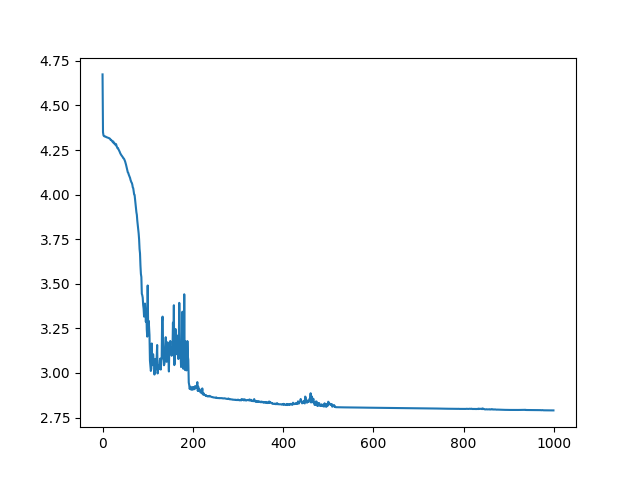
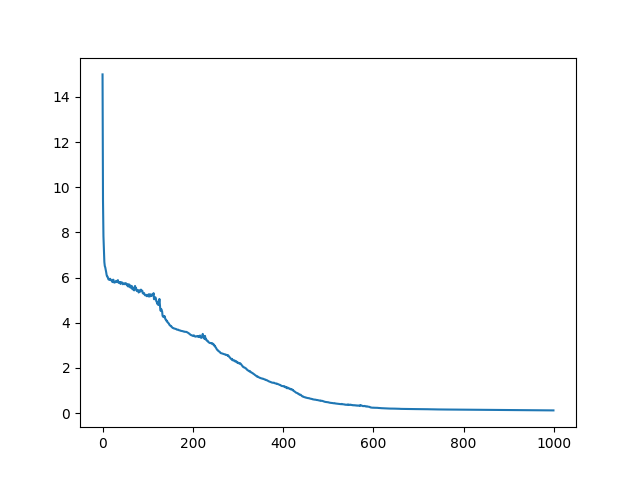
Assignment 012-2 Re-Computed

diff --git a/neural_network/012-2.py b/neural_network/012-2.py
@@ -1,44 +1,72 @@
 import math
+import decimal
 import sys
 from generate_weights import generate_weights
 from neural_network import NeuralNetwork
 
 def tanh( x ):
-    numerator = math.e ** x - math.e ** ( - x )
-    denominator = math.e ** x + math.e ** ( - x )
+    e_x = math.e ** x
+    e_neg_x = math.e ** ( - x )
+    numerator = e_x - e_neg_x
+    denominator = e_x + e_neg_x
     return numerator / denominator
 
 def sech( x ):
-    denominator = math.e ** x + math.e ** ( - x )
+    e_x = math.e ** x
+    e_neg_x = math.e ** ( - x )
+    denominator = e_x + e_neg_x
     return 2 / denominator
 
-dataset = [
-    ( 0.0 , 0.7 ), 
-    ( 0.2 , 0.56 ), 
-    ( 0.4 , 0.356 ), 
-    ( 0.6 , 0.123 ), 
-    ( 0.8 , -0.103 ),
-    ( 1.0 , -0.289 ), 
-    ( 1.2 , -0.406 ), 
-    ( 1.4 , -0.439 ), 
-    ( 1.6 , -0.388 ), 
-    ( 1.8 , -0.264 ),
-    ( 2.0 , -0.092 ), 
-    ( 2.2 , 0.095 ), 
-    ( 2.4 , 0.263 ), 
-    ( 2.6 , 0.379 ), 
-    ( 2.8 , 0.422 ),
-    ( 3.0 , 0.38 ), 
-    ( 3.2 , 0.256 ), 
-    ( 3.4 , 0.068 ), 
-    ( 3.6 , -0.158 ), 
-    ( 3.8 , -0.384 ),
-    ( 4.0 , -0.576 ), 
-    ( 4.2 , -0.701 ), 
-    ( 4.4 , -0.738 ), 
-    ( 4.6 , -0.676 ), 
-    ( 4.8 , -0.522 )
+dataset = [ 
+    (0.0 , 7.0), 
+    (0.2 , 5.6), 
+    (0.4 , 3.56), 
+    (0.6 , 1.23), 
+    (0.8 , -1.03),
+    (1.0 , -2.89),
+    (1.2 , -4.06), 
+    (1.4 , -4.39), 
+    (1.6 , -3.88), 
+    (1.8 , -2.64), 
+    (2.0 , -0.92), 
+    (2.2 , 0.95), 
+    (2.4 , 2.63), 
+    (2.6 , 3.79), 
+    (2.8 , 4.22),
+    (3.0 , 3.8), 
+    (3.2 , 2.56), 
+    (3.4 , 0.68), 
+    (3.6 , -1.58), 
+    (3.8 , -3.84), 
+    (4.0 , -5.76), 
+    (4.2 , -7.01), 
+    (4.4 , -7.38), 
+    (4.6 , -6.76), 
+    (4.8 , -5.22) 
 ]
+
+max_x = abs ( 
+        max( 
+        dataset, 
+        key = lambda data: abs( data[ 0 ] )
+    ) [ 1 ]
+)
+
+max_y = abs ( 
+        max( 
+        dataset, 
+        key = lambda data: abs( data[ 1 ] )
+    ) [ 1 ]
+)
+
+dataset = [ # preprocessing
+    ( 
+        data[0] / max_x,
+        data[1] / max_y
+    ) 
+    for data in dataset
+]
+
 
 dataset = [ 
     { 
@@ -56,21 +84,21 @@ best_nn = None
 for _ in range( 30 ):
 
     weights = generate_weights(
-        [1, 10, 6, 3, 1], 
+        [1, 6, 6, 6, 6, 6, 1], 
         random_bool = True, 
-        random_range = [ -0.2, 0.2 ],
-        layers_with_bias_nodes = [0, 1, 2, 3]
+        random_range = [ -1, 1 ],
+        layers_with_bias_nodes = [0, 1, 2, 3, 4, 5]
     )
 
-    activation_functions = [ 
+    activation_functions = [ lambda x: x ] + [ 
         tanh 
-        for _ in range( len( weights ) )
-    ]
+        for _ in range( len( weights ) - 2 )
+    ] + [ lambda x: x ]
 
-    activation_function_derivatives = [
+    activation_function_derivatives = [lambda x: 1 ] + [
         lambda x: sech(x) ** 2 
-        for _ in range( len( weights ) )
-    ]
+        for _ in range( len( weights ) - 2 )
+    ] + [ lambda x: 1 ]
 
     nn = NeuralNetwork(
         weights, 
@@ -133,26 +161,6 @@ plt.plot( list( range( 1000 ) ), total_rss )
 plt.savefig('images/012-2-1.png')
 plt.clf()
 
-def run_neural_network(nn, iterations):
-    for i in range(1, iterations + 1):
-        for data_point in dataset:
-            nn.calc_prediction(data_point)
-            for node in nn.nodes[::-1]:
-                nn.update_neuron_gradients(data_point, node.index)
-            for edge in nn.weights.keys():
-                nn.update_weight_gradients(data_point, edge)
-        nn.update_weights(print_output=False, iteration=i)
-    return nn
-
-fitted_nn = NeuralNetwork(
-    best_nn[ 'neural network' ].weights, 
-    functions = best_nn[ 'neural network' ].functions, 
-    derivatives = best_nn[ 'neural network' ].derivatives,
-    alpha = 0.01
-)
-
-fitted_nn = run_neural_network(fitted_nn, 20000)
-
 xs = []
 ys = []
 ys_1 = []
@@ -164,11 +172,10 @@ for data in dataset:
     ys.append( data[ 'output' ] )
     ys_1.append( worst_nn[ 'neural network' ].calc_prediction( data ) )
     ys_2.append( best_nn[ 'neural network' ].calc_prediction( data ) )
-    ys_3.append( fitted_nn.calc_prediction( data ) )
-
+    
 plt.scatter(xs, ys)
 plt.plot(xs, ys_1)
 plt.plot(xs, ys_2)
-plt.plot(xs, ys_3)
-plt.legend( [ 'Data Points', 'Worst Neural Network', 'Best Neural Network', 'Fitted Neural Network' ] )
+plt.legend( [ 'Data Points', 'Worst Neural Network', 'Best Neural Network'] )
 plt.savefig('images/012-2-2.png')
+plt.clf()

diff --git a/neural_network/neural_network.py b/neural_network/neural_network.py
@@ -3,25 +3,35 @@ from nn_directed_weighted_graph import NNDirectedWeightedGraph
 import numpy as np
 
 class NeuralNetwork( NNDirectedWeightedGraph ):
-    def __init__( self, weights, functions = None, derivatives = None, data_points = list(), alpha = 0.001, debug = False ):
+    def __init__( self, weights, data_type = 'continuous', functions = None, derivatives = None, data_points = list(), alpha = 0.001, debug = False ):
         
         # Inhereit from a DirectedWeightedGraph to make the net
         node_indices = sorted( set( [ _ for key in weights.keys() for _ in key ] ) )
         super().__init__( weights = weights, vertex_values = node_indices ) 
 
-        self.functions = [ lambda x: x for _ in range( 0, len( node_indices ) ) ]
-        self.derivatives = [ lambda x: 1 for _ in range( 0, len( node_indices ) ) ]
-        self.alpha = alpha
-        self.debug = debug
-        self.data_points = data_points
-        self.set_gradients()
-        self.set_misclassifications()
-        self.set_predictions()
-        
         if functions is not None and derivatives is not None:
 
             self.functions = functions
             self.derivatives = derivatives
+
+        else:
+
+            self.functions = [ lambda x: x for _ in range( 0, len( node_indices ) ) ]
+            self.derivatives = [ lambda x: 1 for _ in range( 0, len( node_indices ) ) ]
+        
+        self.alpha = alpha
+        self.debug = debug
+        self.data_points = data_points
+        self.data_type = data_type
+        self.set_gradients()
+        self.set_predictions()
+
+        if data_type == 'continuous':
+            #stuff
+            self.data_type = data_type
+        elif data_type == 'discrete':
+            #stuff
+            self.set_misclassifications()
 
     def set_gradients( self ):
         
@@ -45,6 +55,7 @@ class NeuralNetwork( NNDirectedWeightedGraph ):
             new_weights[ edge ] -= self.alpha * self.weight_gradients[ edge ] 
 
         self.weights = dict( new_weights )
+        new_weights = None
         del new_weights
 
         if print_output and ( iteration < 6 or iteration % 1000 == 0 ):
@@ -52,12 +63,22 @@ class NeuralNetwork( NNDirectedWeightedGraph ):
             self.print_outputs( iteration )
 
         self.set_gradients()
-        self.set_misclassifications()
         self.set_predictions()
+
+        if self.data_type == 'discrete':
+            self.set_misclassifications()
 
     def update_neuron_gradients( self, data_point, node_index ):
         
-        self.neuron_gradients[ node_index ] += 2.0 * self.predictions[ tuple( data_point[ 'input' ] ) ]
+        if self.data_type == 'continuous':
+
+            prediction = self.predictions[ tuple( data_point[ 'input' ] ) ]
+
+        else:
+
+            prediction = data_point[ 'output' ]( self.predictions[ tuple( data_point[ 'input' ] ) ] )
+        
+        self.neuron_gradients[ node_index ] += 2.0 * prediction
         total_weight = 0.0
         every_possible_path_containing_edge = self.get_every_possible_path_containing_edge( current_paths = [ list( [ node_index ] ) ] )
         
@@ -91,9 +112,14 @@ class NeuralNetwork( NNDirectedWeightedGraph ):
         # Calculate Gradient
         dE = self.calc_dE( data_point, edge ) 
         
-        #if data_point[ 'output' ]( self.predictions[ tuple( data_point[ 'input' ] ) ] ) != 0.0:
-            
-            #self.misclassifications[ tuple( data_point[ 'input' ] ) ] = True
+        if self.data_type == 'discrete':
+
+            prediction = data_point[ 'output' ]( self.predictions[ tuple( data_point[ 'input' ] ) ] )
+
+            if self.data_type == 'continuous' and prediction != 0.0:
+                
+                self.misclassifications[ tuple( data_point[ 'input' ] ) ] = True
+
         self.weight_gradients[ edge ] += dE # Update Gradient
         
         if self.debug:
